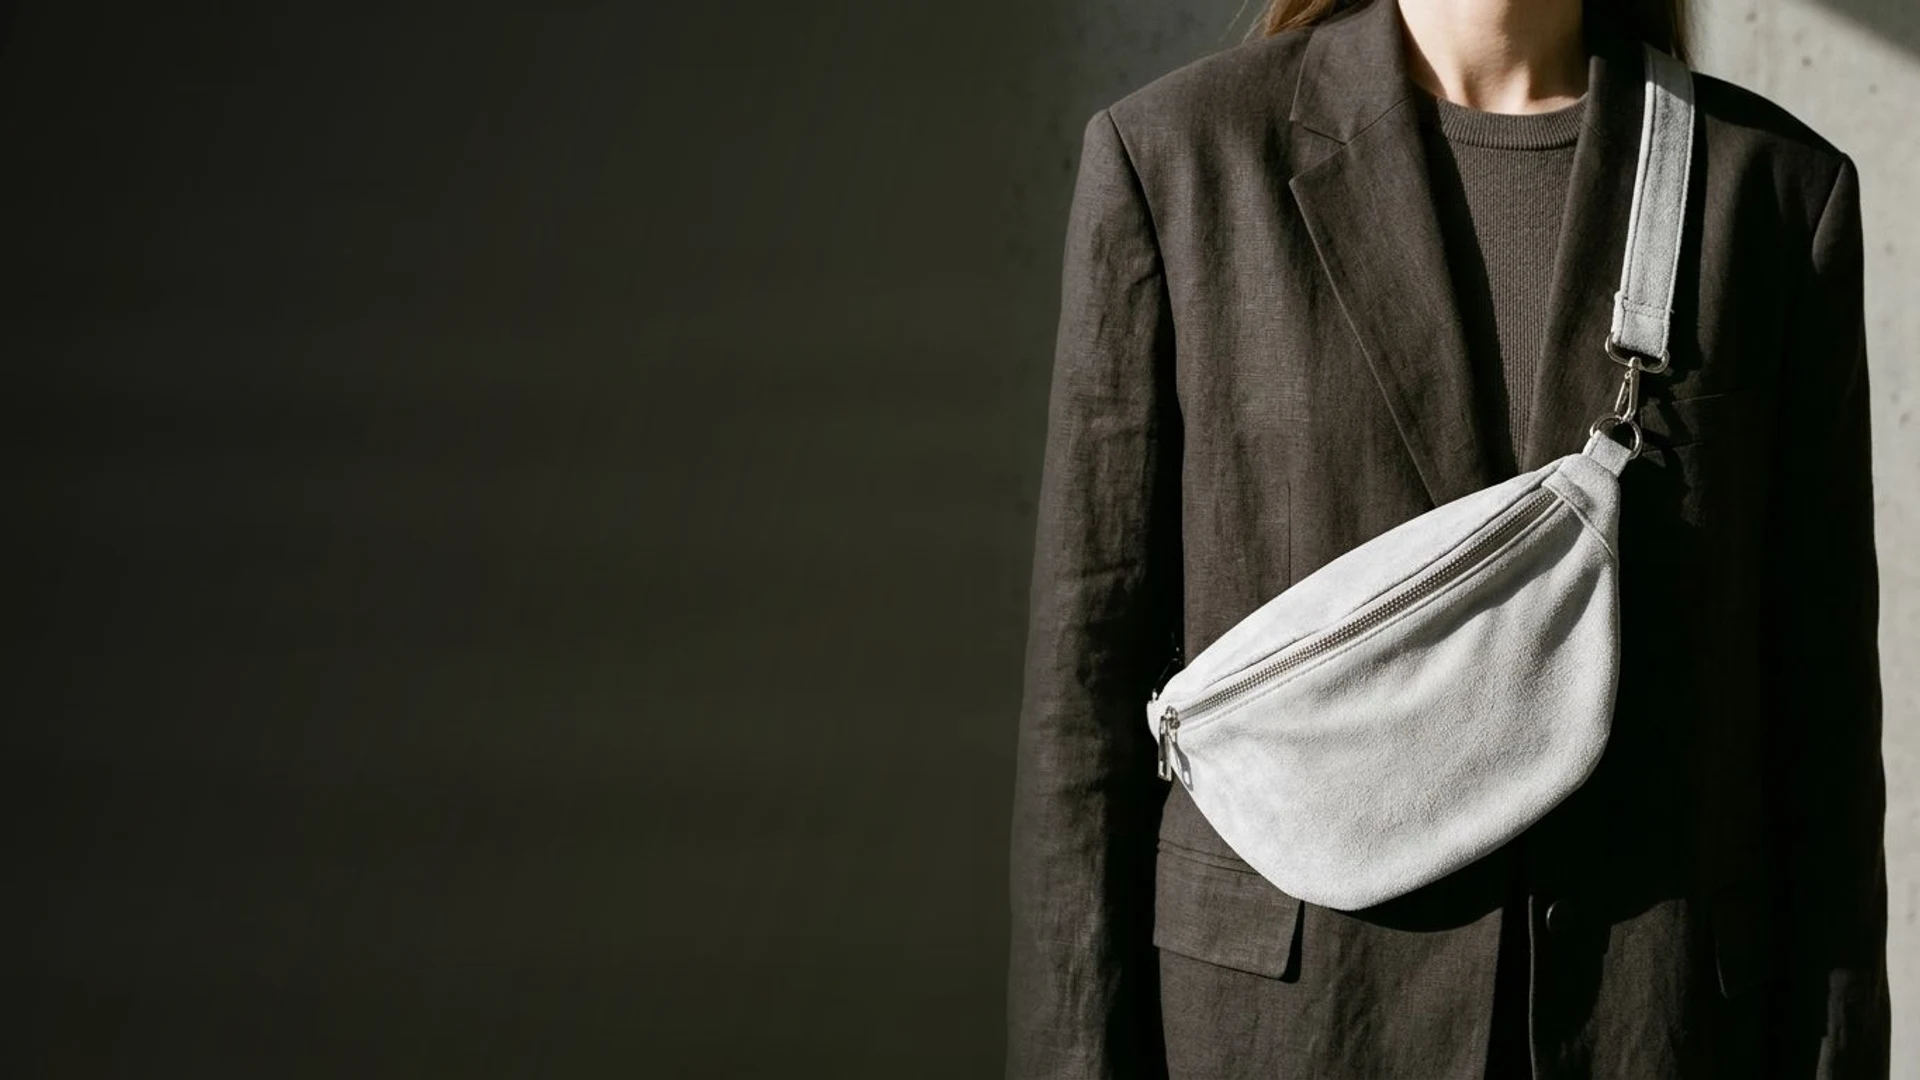
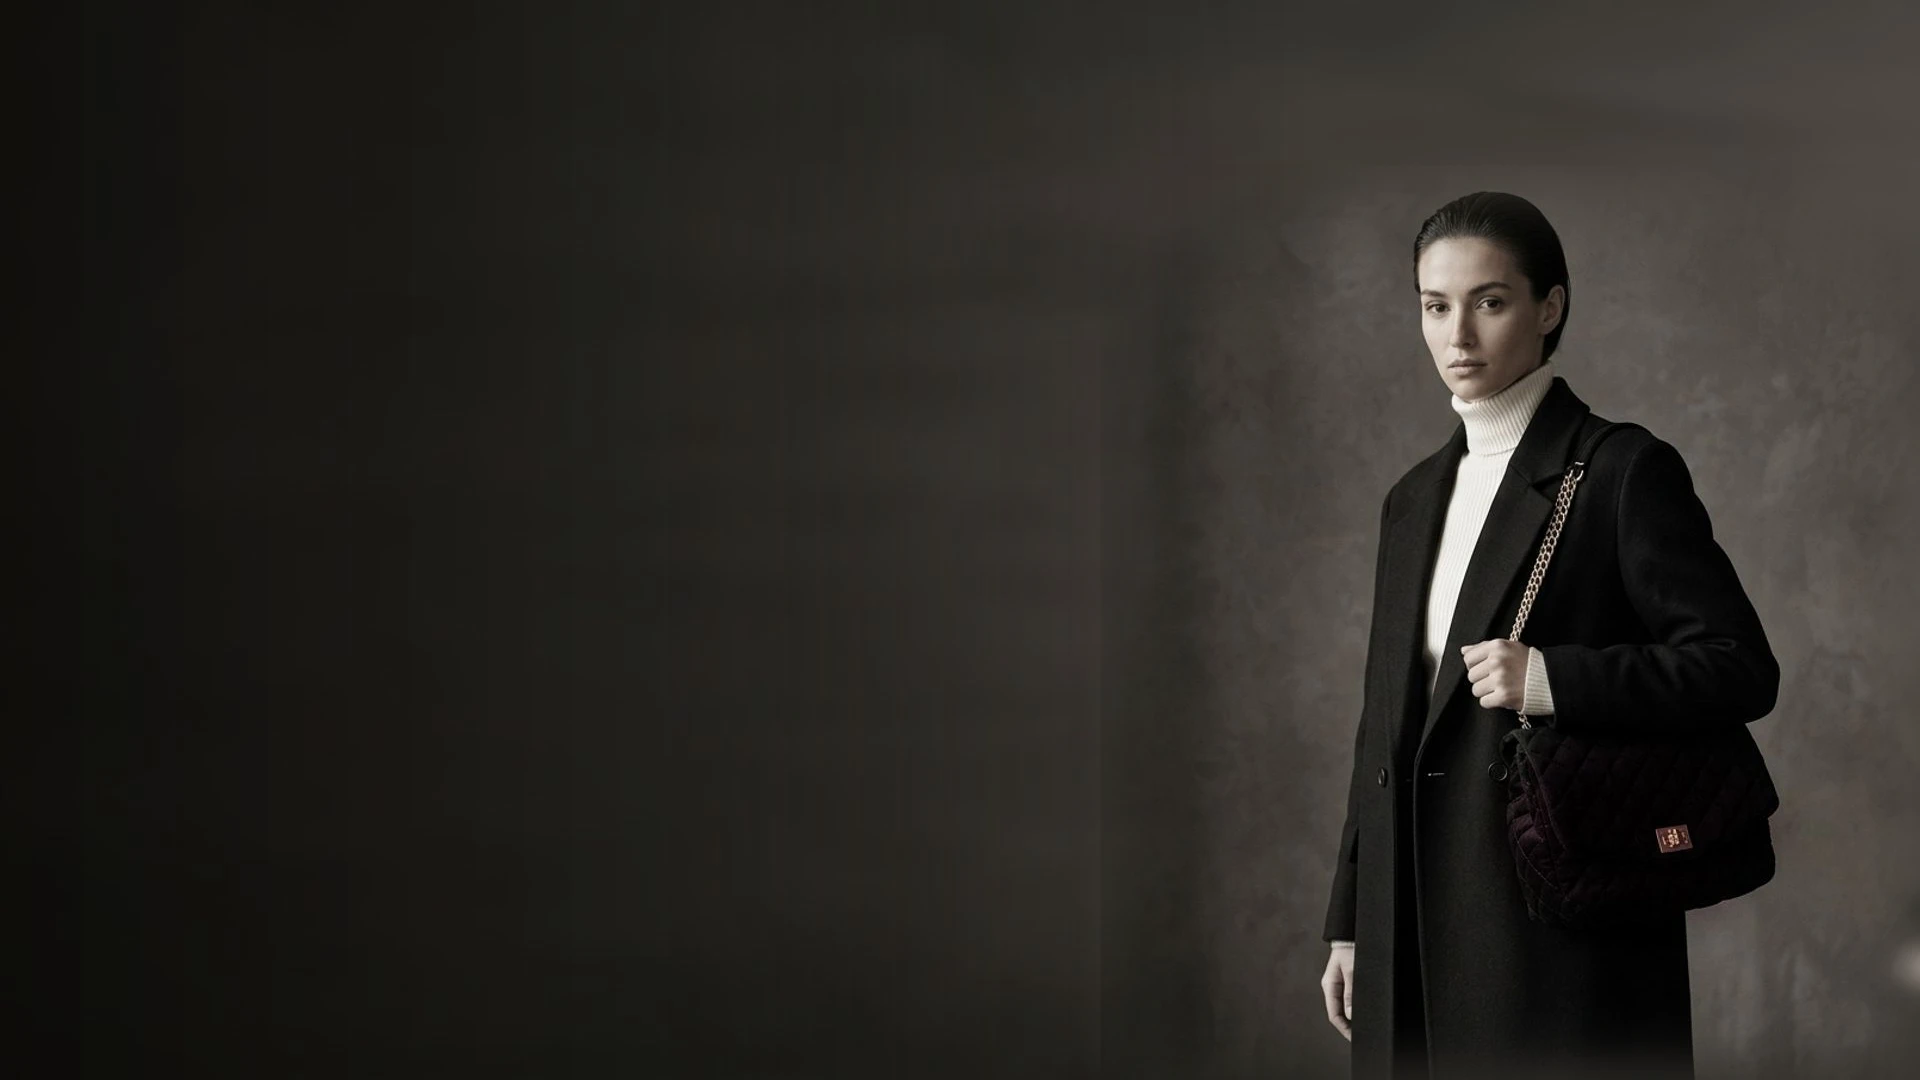
fix(hero): zoom out campaign figures with generous headroom and top-anchored framing

diff --git a/src/components/HomeView.tsx b/src/components/HomeView.tsx
@@ -24,13 +24,13 @@ const HERO_CAMPAIGN_LOOKS = [
     slug: 'quilted-flap-bag',
     image: '/images/hero/hero-campaign-1.webp',
     alt: 'Editorial fashion portrait with TAWIOS black quilted velvet flap bag and gold turn-lock clasp',
-    objectPosition: 'object-[78%_18%] sm:object-[72%_18%] lg:object-center',
+    objectPosition: 'object-[78%_top] sm:object-[72%_top] lg:object-[center_top]',
   },
   {
-    slug: 'suede-sling-bag',
+    slug: 'quilted-flap-plum',
     image: '/images/hero/hero-campaign-2.webp',
-    alt: 'Editorial lookbook featuring TAWIOS mist silver suede-feel crossbody sling bag over dark linen blazer',
-    objectPosition: 'object-[76%_center] sm:object-[70%_center] lg:object-center',
+    alt: 'Editorial fashion portrait with TAWIOS deep plum quilted velvet flap bag and cream turtleneck',
+    objectPosition: 'object-[78%_top] sm:object-[72%_top] lg:object-[center_top]',
   },
   {
     slug: 'boucle-sling-bag',
